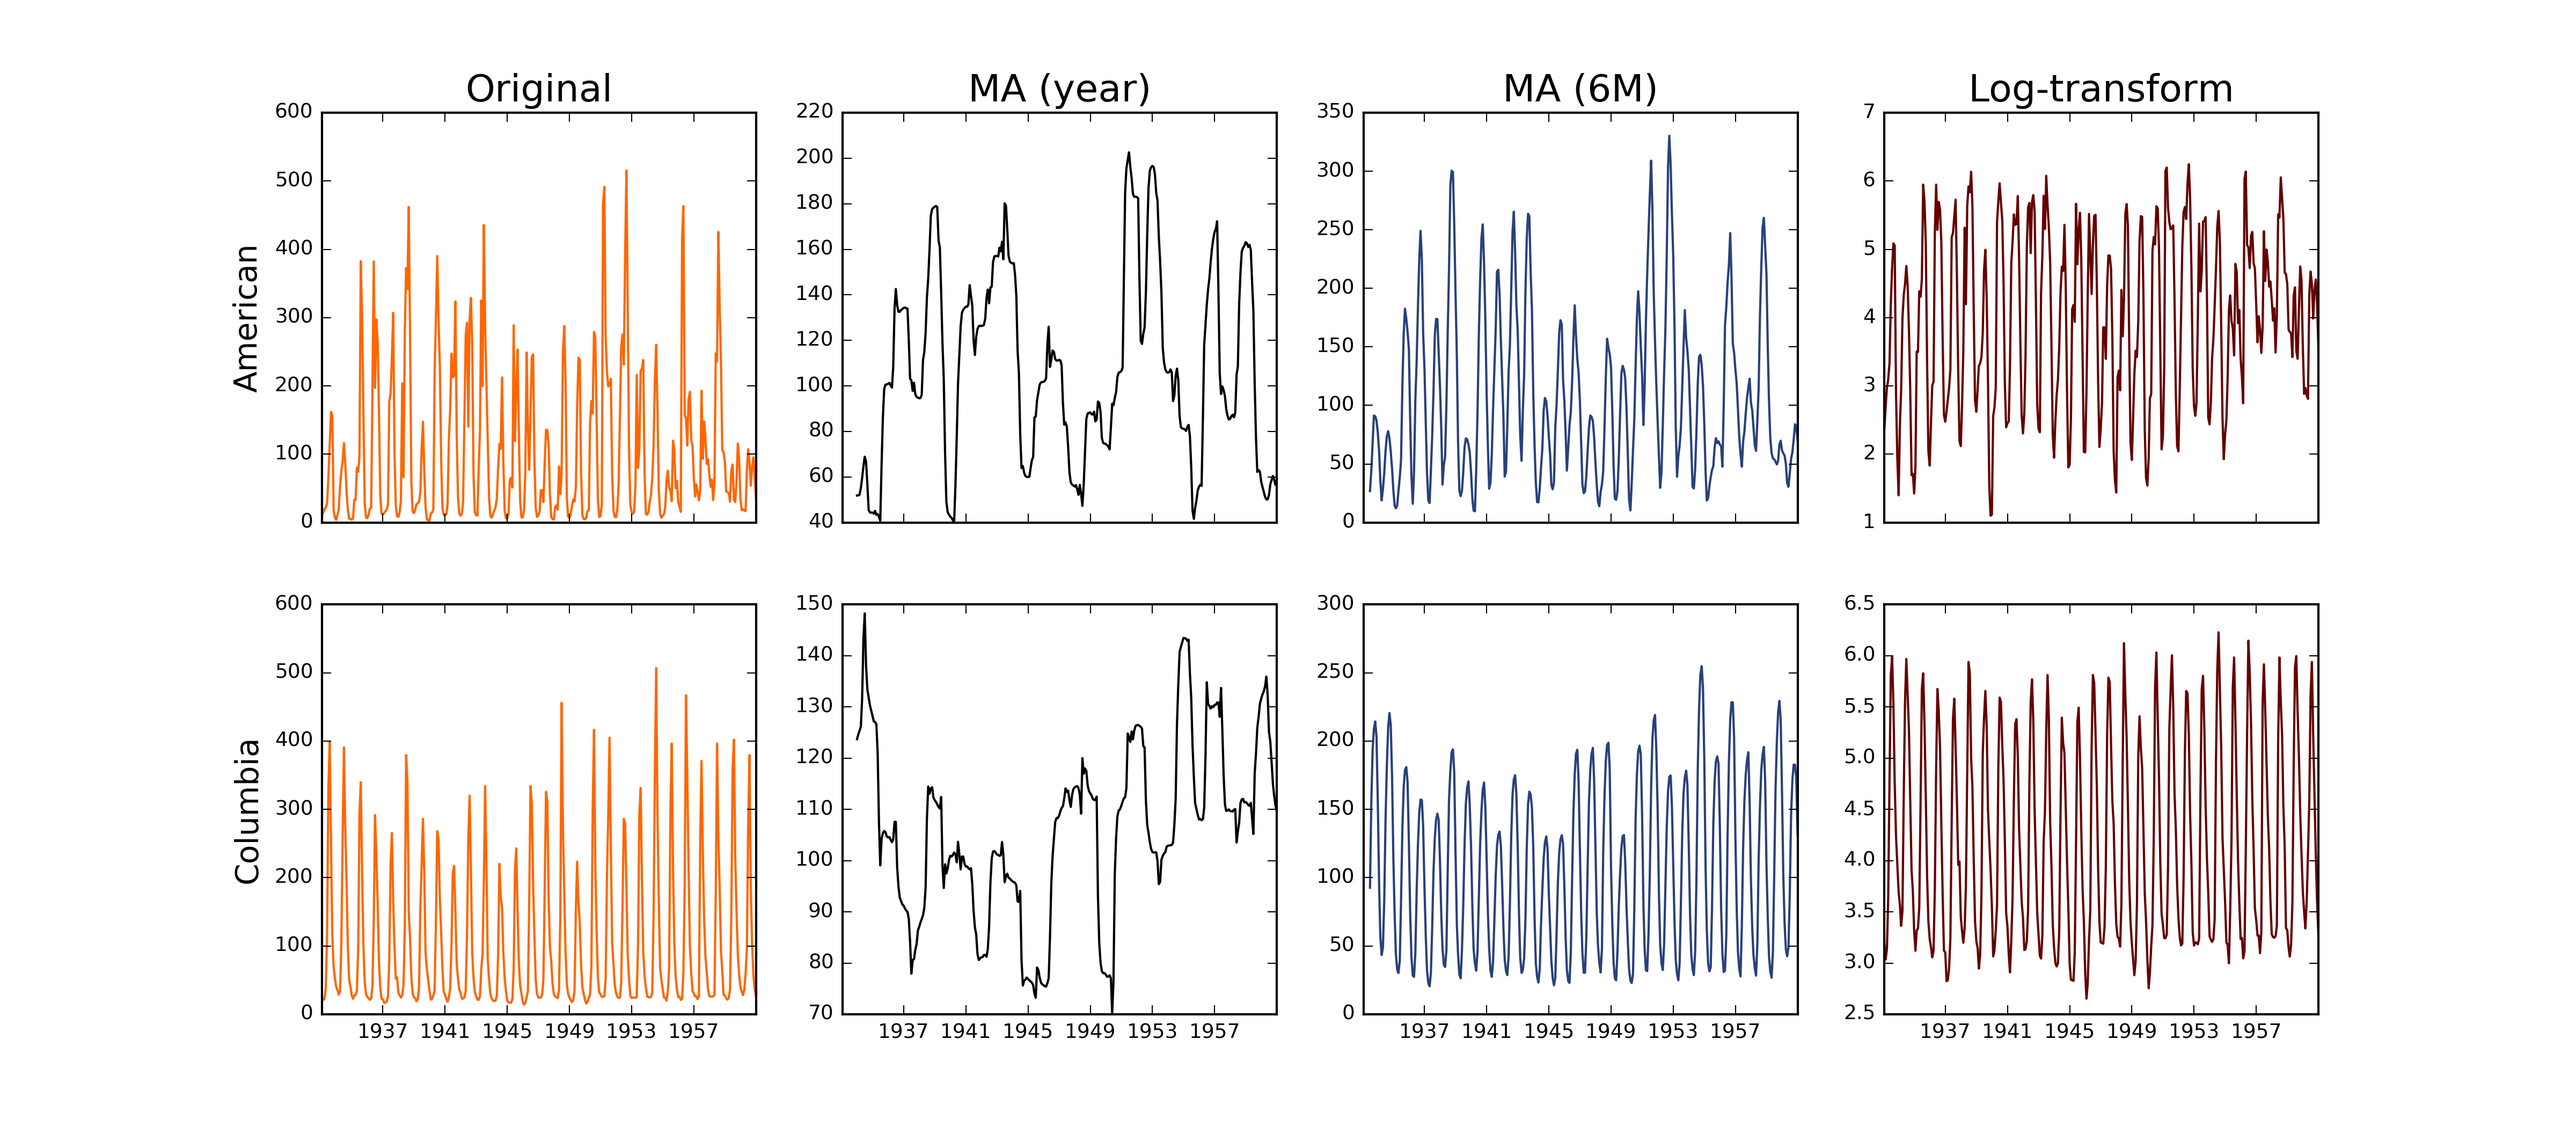
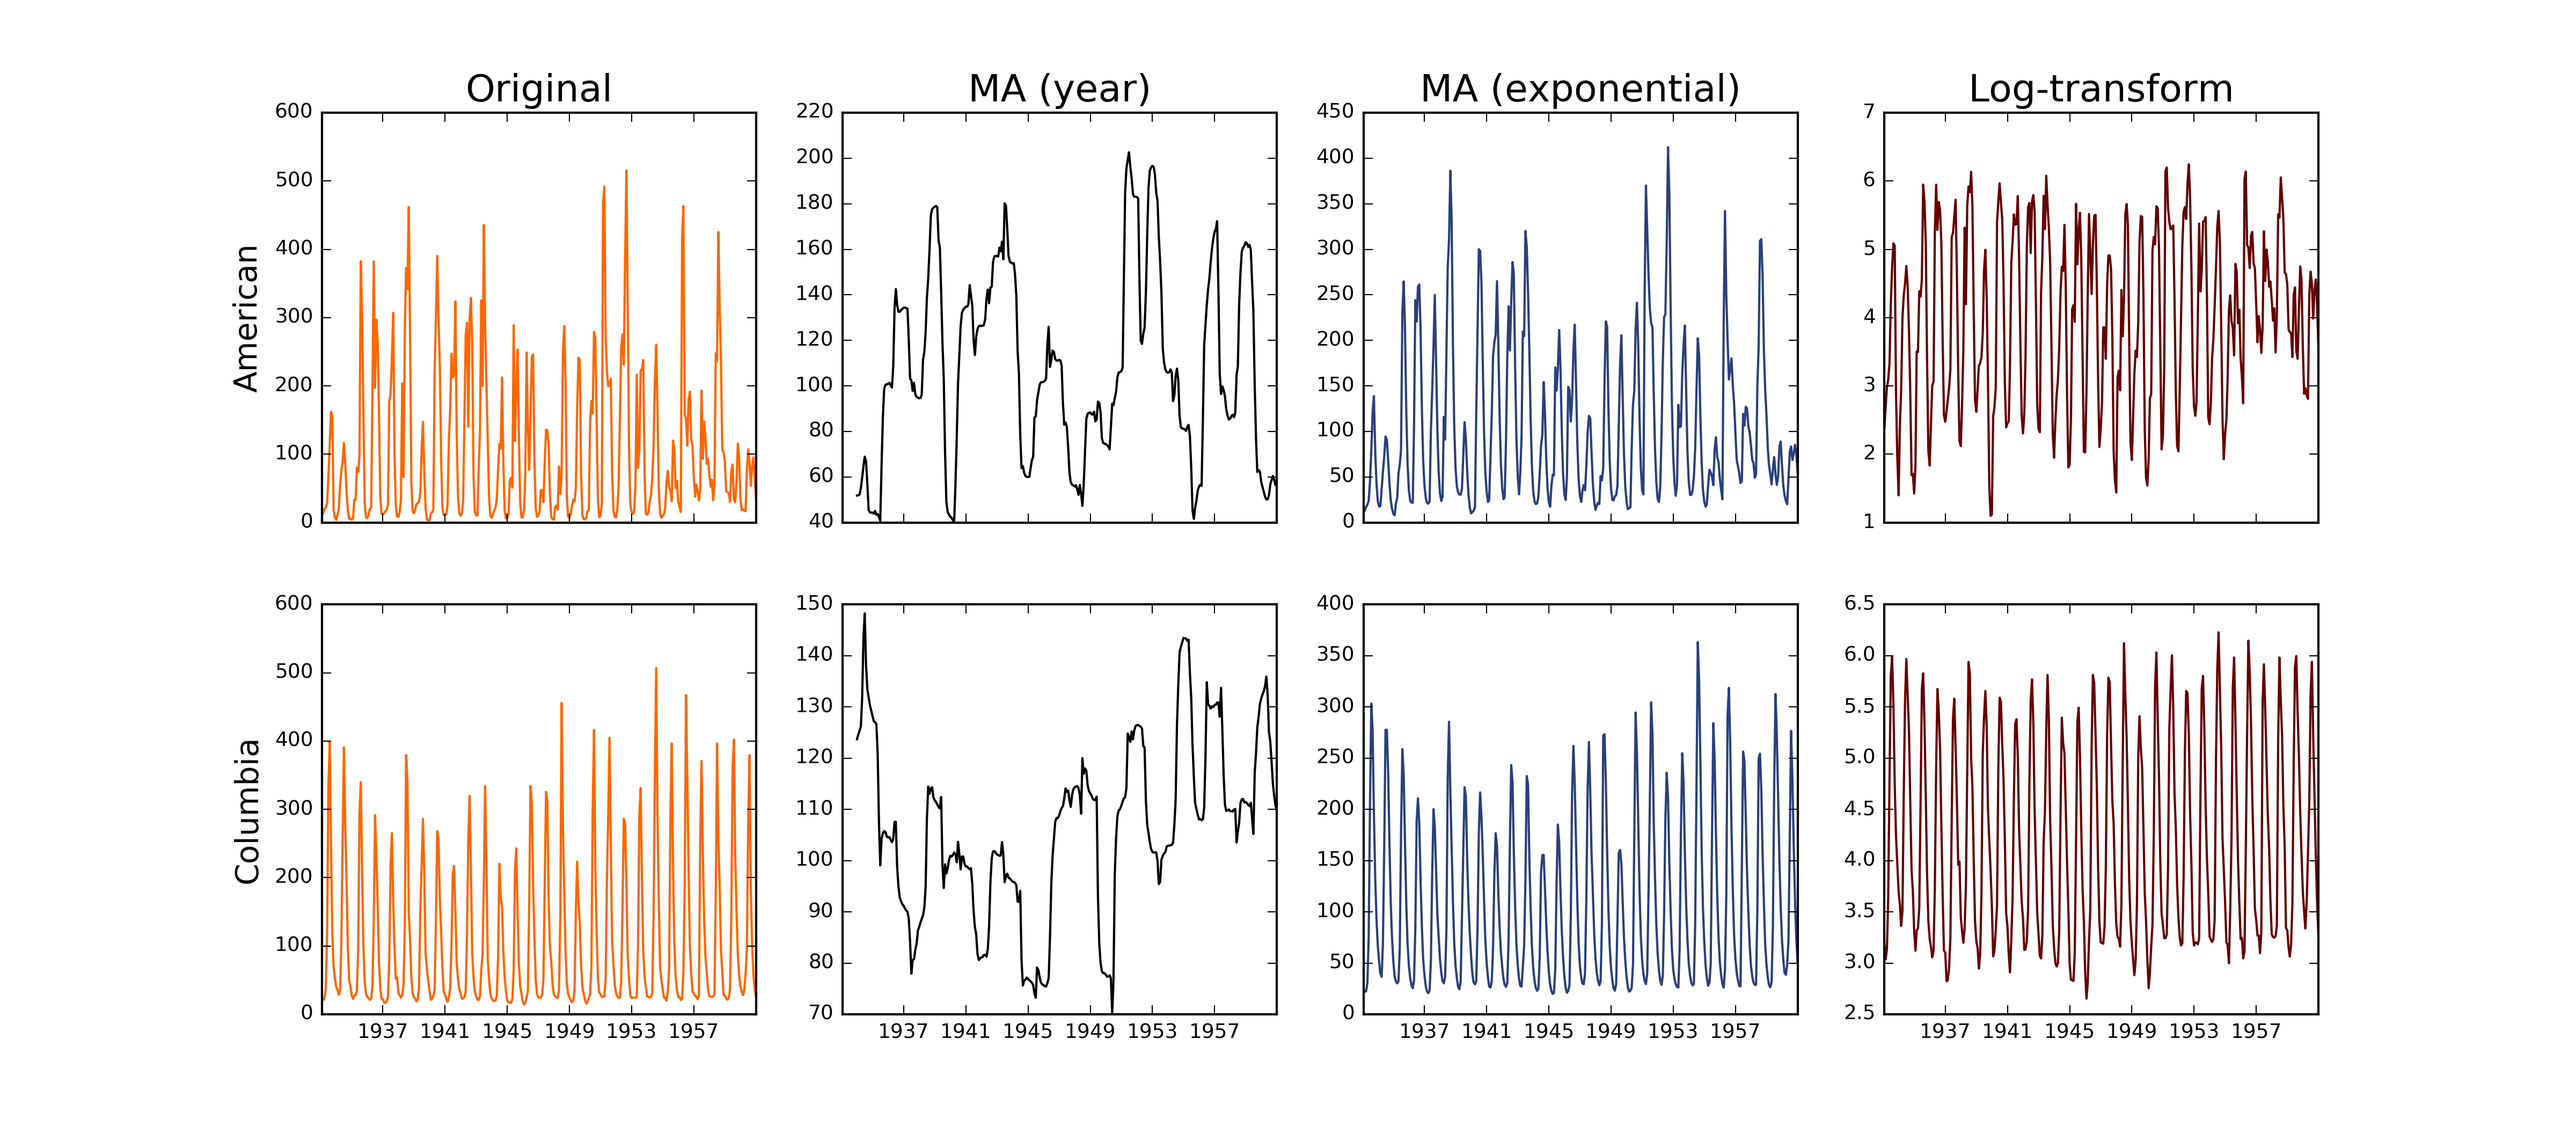
Changed MA6 to exponential smoothing

diff --git a/Codes/Chapter7/ts_smoothing.py b/Codes/Chapter7/ts_smoothing.py
@@ -22,7 +22,7 @@ riverFlows = pd.read_csv(data_folder + 'combined_flow.csv',
     index_col=0, parse_dates=[0])
 
 ma_transform12  = pd.rolling_mean(riverFlows, window=12)
-ma_transform6   = pd.rolling_mean(riverFlows, window=6)
+ma_transformExp = pd.ewma(riverFlows, span=3)
 log_transfrom   = riverFlows.apply(np.log)
 
 # plot the data
@@ -32,21 +32,21 @@ fig, ax = plt.subplots(2, 4, sharex=True)
 fig.set_size_inches(16, 7)
 
 # plot the charts for american
-ax[0, 0].plot(riverFlows['american_flow'],    colors[0])
-ax[0, 1].plot(ma_transform12['american_flow'],colors[1]) 
-ax[0, 2].plot(ma_transform6['american_flow'], colors[2]) 
-ax[0, 3].plot(log_transfrom['american_flow'], colors[3])
+ax[0, 0].plot(riverFlows['american_flow'],     colors[0])
+ax[0, 1].plot(ma_transform12['american_flow'], colors[1]) 
+ax[0, 2].plot(ma_transformExp['american_flow'],colors[2]) 
+ax[0, 3].plot(log_transfrom['american_flow'],  colors[3])
 
 # plot the charts for columbia
-ax[1, 0].plot(riverFlows['columbia_flow'],    colors[0])
-ax[1, 1].plot(ma_transform12['columbia_flow'],colors[1]) 
-ax[1, 2].plot(ma_transform6['columbia_flow'], colors[2]) 
-ax[1, 3].plot(log_transfrom['columbia_flow'], colors[3])
+ax[1, 0].plot(riverFlows['columbia_flow'],     colors[0])
+ax[1, 1].plot(ma_transform12['columbia_flow'], colors[1]) 
+ax[1, 2].plot(ma_transformExp['columbia_flow'],colors[2]) 
+ax[1, 3].plot(log_transfrom['columbia_flow'],  colors[3])
 
 # set titles for columns
 ax[0, 0].set_title('Original')
 ax[0, 1].set_title('MA (year)')
-ax[0, 2].set_title('MA (6M)')
+ax[0, 2].set_title('MA (exponential)')
 ax[0, 3].set_title('Log-transform')
 
 # set titles for rows

diff --git a/Codes/Chapter7/ts_timeSeriesFunctions.py b/Codes/Chapter7/ts_timeSeriesFunctions.py
@@ -22,9 +22,13 @@ riverFlows = pd.read_csv(data_folder + 'combined_flow.csv',
 
 # autocorrelation function
 acf = {}    # to store the results
+f = {}
 
 for col in riverFlows.columns:
     acf[col] = sm.tsa.stattools.acf(riverFlows[col])
+    _, f[col] = sm.tsa.stattools.acf(riverFlows[col], alpha=0.5)
+
+print(f)
 
 # partial autocorrelation function
 pacf = {}
@@ -46,8 +50,8 @@ fig.set_size_inches(12, 7)
 
 # plot the charts for American
 ax[0, 0].plot(acf['american_flow'], colors[0])
-ax[0, 1].plot(pacf['american_flow'],colors[1])
-ax[0, 2].plot(sd['american_flow'],  colors[2])
+ax[0, 1].plot(pacf['american_flow'],colors[2])
+ax[0, 2].plot(sd['american_flow'],  colors[3])
 ax[0, 2].yaxis.tick_right() # shows the numbers on the right
 
 # plot the charts for Columbia
